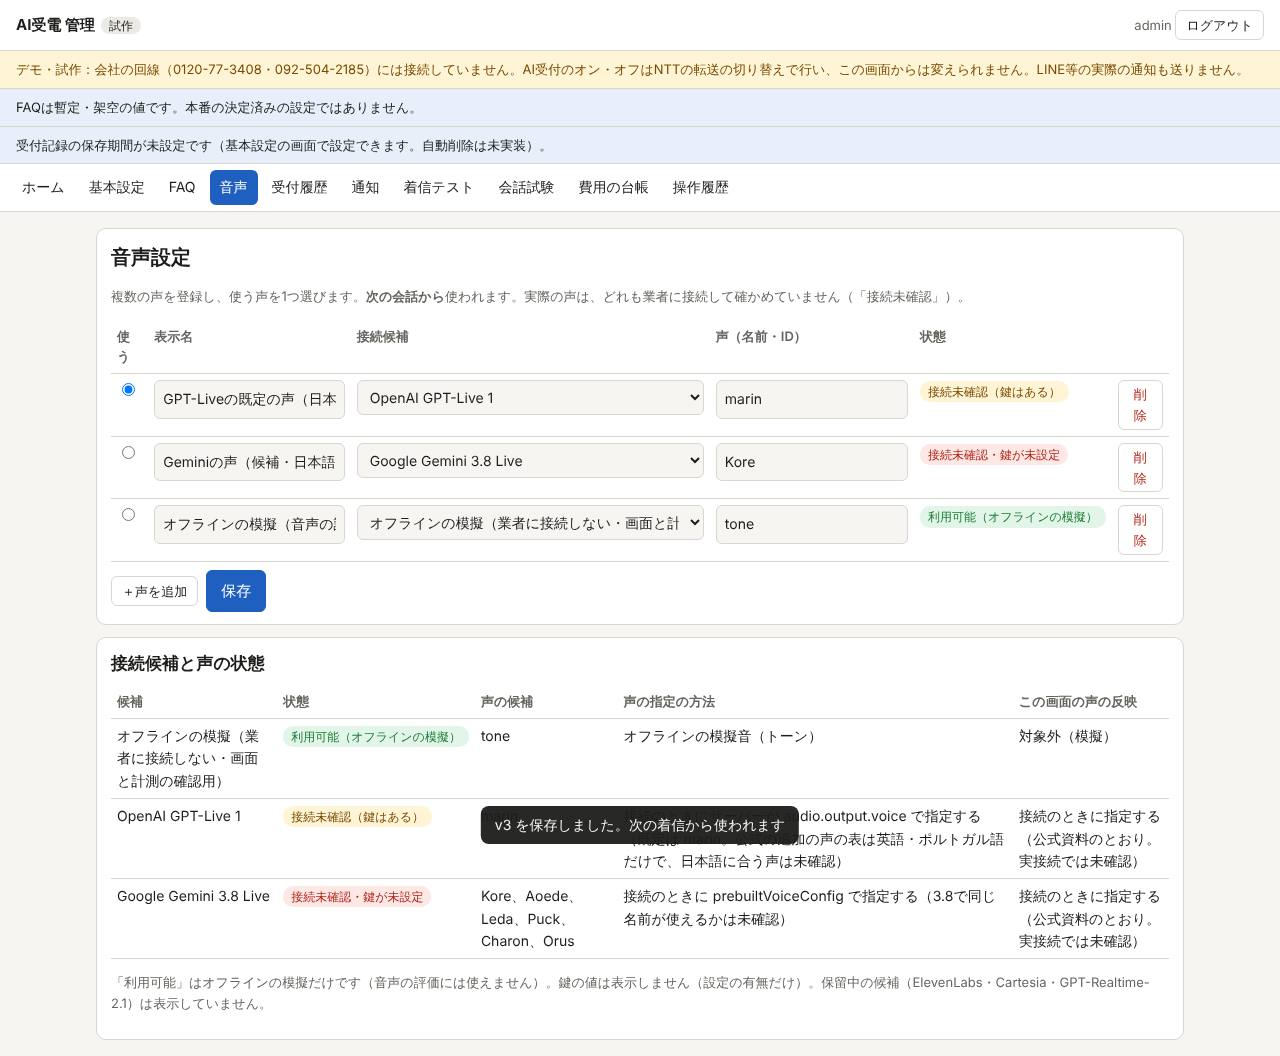
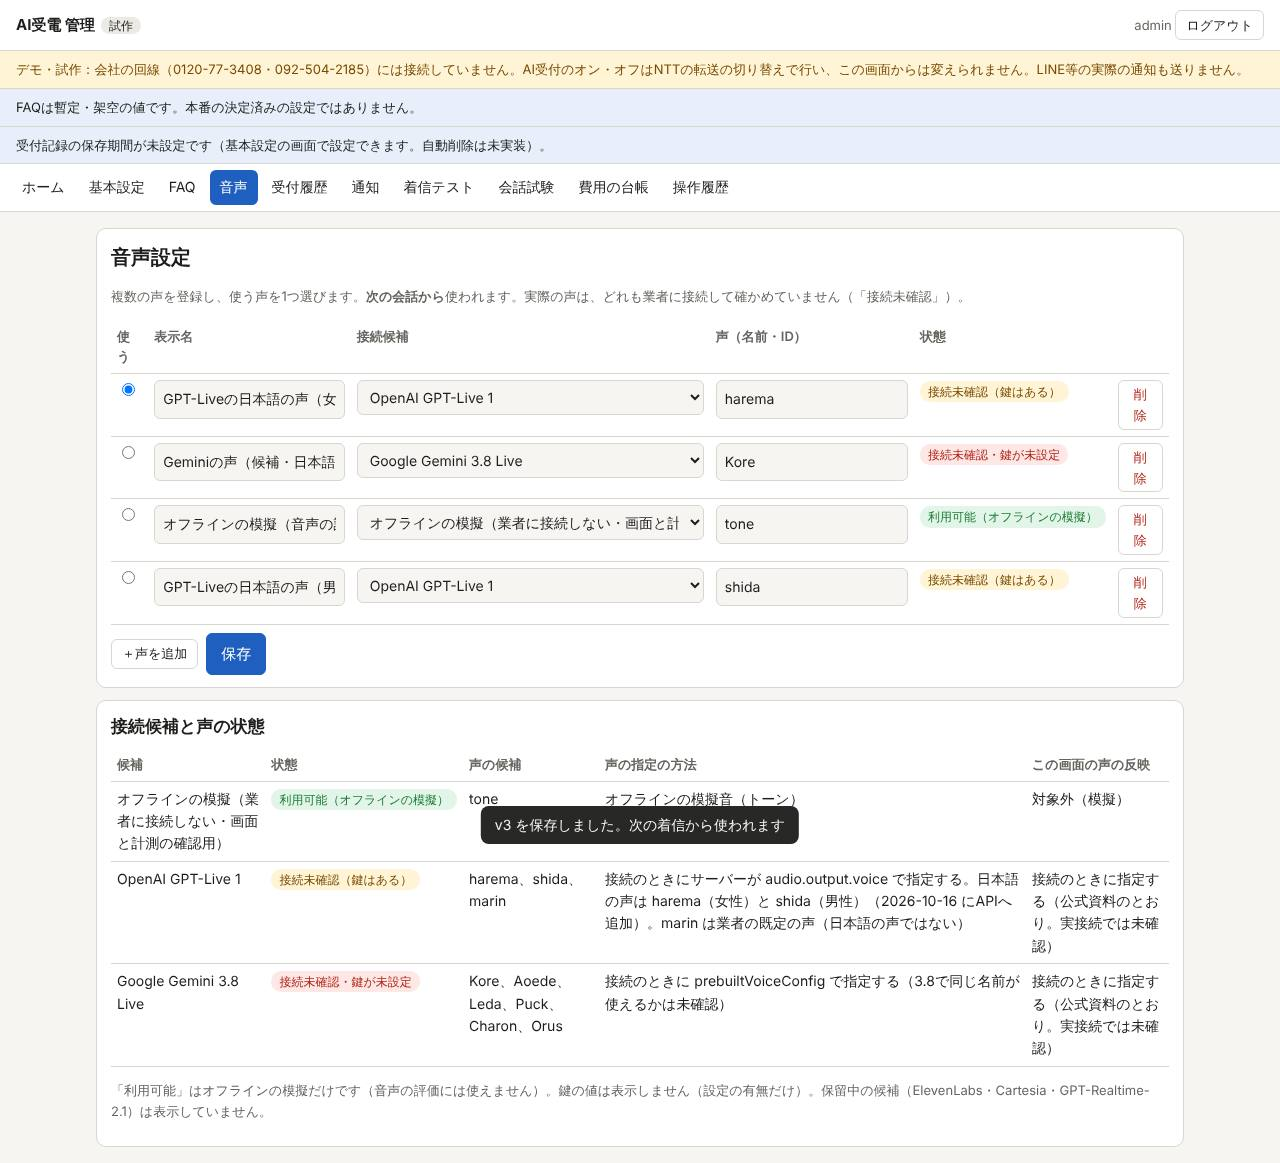
Lab: GPT-Live speaks with its new Japanese voice (harema) by default
GPT-Live-1.1 is still not in the API (2026-10-19; the model list has only
gpt-live-1). But on 2026-10-16 the gpt-live-1 API gained Japanese voices,
harema (feminine) and shida (masculine). The lab's default GPT-Live voice
is now harema, and shida is registered too; both can be switched on the
admin app's voice screen. An install that keeps its records (Mac) keeps
its saved voice until it is changed there.

Claude-Session: https://claude.ai/code/session_018pFjPLuP3S5SkWoNSMzDKX

diff --git a/prototype/reception/settings.py b/prototype/reception/settings.py
@@ -24,9 +24,11 @@ DEFAULT_CONFIG = {
     "provisional": True,
     "ai_failure_action": "forward",
     "voices": [   # the first connection check uses GPT-Live and Gemini only (user decision 2026-10-07)
-        {"id": "v1", "candidate": "gpt-live-1", "voice": "marin", "label": "GPT-Liveの既定の声（日本語は未確認）"},
+        # GPT-Live's Japanese voices were added to the API on 2026-10-16 (feminine harema, masculine shida)
+        {"id": "v1", "candidate": "gpt-live-1", "voice": "harema", "label": "GPT-Liveの日本語の声（女性・harema）"},
         {"id": "v2", "candidate": "gemini-3.8-live", "voice": "Kore", "label": "Geminiの声（候補・日本語は未確認）"},
         {"id": "v3", "candidate": "fake", "voice": "tone", "label": "オフラインの模擬（音声の評価には使えない）"},
+        {"id": "v4", "candidate": "gpt-live-1", "voice": "shida", "label": "GPT-Liveの日本語の声（男性・shida）"},
     ],
     "active_voice": "v1",
     "fields": {k: {"store": True, "summary": True, "notify": True} for k in FIELD_KEYS},
@@ -123,8 +125,9 @@ VOICE_CATALOG = {
     "gpt-realtime-2.1": {"voices": ["marin", "cedar", "alloy", "ash", "ballad", "coral", "echo", "sage", "shimmer",
                                     "verse"],
                          "how": "接続のときにサーバーが声を指定する"},
-    "gpt-live-1": {"voices": ["marin"], "how": "接続のときにサーバーが audio.output.voice で指定する（既定は marin。"
-                                               "公式の追加の声の表は英語・ポルトガル語だけで、日本語に合う声は未確認）"},
+    "gpt-live-1": {"voices": ["harema", "shida", "marin"],
+                   "how": "接続のときにサーバーが audio.output.voice で指定する。日本語の声は harema（女性）と shida（男性）"
+                          "（2026-10-16 にAPIへ追加）。marin は業者の既定の声（日本語の声ではない）"},
     "gemini-3.8-live": {"voices": ["Kore", "Aoede", "Leda", "Puck", "Charon", "Orus"],
                         "how": "接続のときに prebuiltVoiceConfig で指定する（3.8で同じ名前が使えるかは未確認）"},
     "elevenagents": {"voices": [], "how": "ElevenLabsの画面でエージェントの声を選ぶ。声のIDを入力して登録（上書きの許可が要る）"},

diff --git a/prototype/tests/test_browser_lab.py b/prototype/tests/test_browser_lab.py
@@ -445,7 +445,7 @@ class LabSessionControlTest(unittest.TestCase):
         self.assertFalse(lab.tool(g2["session_id"], "lookup_faq", {"question": "ロースターの清掃の料金"})["found"])
         live = lab.start("gpt-live-1")
         lab.sdp(live["session_id"], "offer")
-        self.assertEqual(lab.http.calls[-1]["body"]["session"]["audio"]["output"]["voice"], "marin")
+        self.assertEqual(lab.http.calls[-1]["body"]["session"]["audio"]["output"]["voice"], "harema")   # Japanese voice
 
     def test_agent_fixed_settings_are_labelled_and_overrides_need_permission(self):
         from prototype.browser_lab.server import SessionLimit

diff --git a/docs/spec-draft-v1.md b/docs/spec-draft-v1.md
@@ -14,6 +14,7 @@
 | v1（本体実装開始指示書 v1の反映、2026-10-07） | 受電モードの判定の規則を具体化した（2-1）。管理画面と、音声方式から独立した受付の共通処理を実装した（2-2。ローカルの試作、架空のデータ）。通知の送信待ちと処理をシミュレーションで実装した（LINEへは送らない）。未確定事項を「本番接続に必要」と「暫定の設定で進められる」に分けた（3-0）。段階2bの土台を先に作った（5章）。試験予算を、接続の予備試験と詳しい会話比較に分けた（[実測計画 v2.1](./measurement-plan-v2.md)） |
 | v1（fc81eddのレビューと利用者の決定の反映、2026-10-08） | 初回の試験の対象を GPT-Live 1 と Gemini 3.8 Live に絞り、ほかは保留、Qwenを次の候補にした（1-3・3-2）。確認の規則に、発話の番号・項目の改訂番号・業者の割り込みの通知を加えた（1-6）。発話でのAIの拒否と録音の拒否を分けた（1-5）。今の着信は担当者の携帯への全件転送であることと、回線案2を「検討中」として運用費を計算したこと（1-1・3-1・3-3）。LINEの費用の説明を正した（1-8）。試験予算の示し方を4つに分けた（[実測計画 v2.2](./measurement-plan-v2.md)）。出先から使うWebアプリは未完了と明記した |
 | v1（回線案2の採用の反映、2026-10-08） | 利用者の決定（10-07「システムのオン・オフで、今まで通り会社に着信するか、AIが受けるかに分かれる」、10-08「手動で人とアプリを切り替える方針」）を反映した。AIのオン・オフはNTTの転送の切り替えで行い、このアプリに届いた通話はすべてAIが受ける（1-1・2-1・3-1）。完成条件1・3を書き換えた（1-2）。受電モード（常時AI・常時普通・スケジュール運用）、曜日の時間帯、特別日、時間外の扱い、「普通受電」の経路、手動上書きの期限を外した。A-04とFAQ-04を固定の文にした（4-2）。回線案1は採用しない案として参考に残した。前の版で回線案2を「検討中」のままにし、決定と食い違っていた |
+| v1（GPT-Liveの日本語の声、2026-10-19） | GPT-Live-1.1 のAPI提供の確認（利用者の質問）の中で、2026-10-16に gpt-live-1 のAPIへ日本語の声 harema（女性）と shida（男性）が加わったと分かった。会話試験の GPT-Live の既定の声を harema にし、shida も登録した（管理画面の「音声」で切り替えられる）。GPT-Live-1.1 は2026-10-19の時点でもAPIでは使えない |
 | v1（AIへの指示を短くする、2026-10-14） | 利用者の質問（「ChatGPTの音声会話はもっと流暢。モデルが違うのか」）を調べ、同じ GPT-Live 1 で、違いは声とAIへの指示の長さだと分かった。利用者の依頼（「細かい手順は裏方のモデルに任せる設計にできないの？」）で、声のモデルへの指示を短くした（約4,600字→約1,800字）。復唱の手順・日付の早見表・FAQは、GPT-Live では裏方のモデルへ、Gemini では業務処理の説明と結果へ移した（2章「AIへの指示の分け方」）。起動の画面が、Googleの新しい形のキー（AQ.）も受け付けるようにした |
 | v1（回線の番号の利用、2026-10-14） | 利用者の決定（2026-10-14「上記は修正してください」）を反映した。回線から届いたお客様の番号（発信者番号）を、要約とLINEの通知に載せる（1-10）。AIは、折り返し先を伺うときに、まず回線の番号に折り返してよいかを伺う（2章「折り返し先の取得」の①を実装）。ブラウザー会話試験に「回線の番号（架空）」の欄を加えた |
 | v1（接遇の見直し、2026-10-13） | 試験の感想（0を「マル」と読む、「少し、確認しましょう」、通話の終わりが分からない、日本語が全体に不自然）を受けて、AIの話し方を電話応対の接遇の資料に合わせた（2章「話し方（接遇）」）。0は「ゼロ」、電話番号の区切りに「の」、番号と日時は保存と同時に復唱する（2章「読み上げ」）。終話の手順と、AIが電話を切る仕組みを加えた（2章「終話」、3-6）。案内文とFAQ-10の言い回しを直した（4-1・4-2。意味は変えていない） |
@@ -541,7 +542,7 @@
 - C1の2回目（2026-10-13、Mac、GPT-Live 1）の感想：①「少々、確認します」が日本語として不自然、②発音が日本語を母語とする人のものではない、③途中で急にかすれた声になる、④返事の後の応答が5秒ほど遅い。記録では、返事の後に業務処理が6回続いていた（保存4回・復唱・FAQ）。①④は指示文と、まとめて保存する業務処理（save_fields）で直した。②③は GPT-Live 1 の声そのものの問題で、指示では直せない（Gemini 3.8 Live との比較で判断する）。相づち（「うん」）でAIの発話が止まる様子もあった（Q-03）。
 - C1の3回目（2026-10-13、Mac、GPT-Live 1）の感想：①0を「マル」と読むのはおかしい、②「少し、確認しましょう」は接遇としておかしい、③いつ会話が終わったのか、お客様の側で分かりにくい、④日本語が全体に不自然なので、電話応対の接遇の資料を調べて設定してほしい。記録では、AIが番号を保存する前に自分で「〇八〇…」と復唱しており、お客様の「はい」で確認済みにならなかった。また、最後は「よろしくお願いいたします」で止まり、締めのあいさつがなかった。接遇の資料を調べて指示を書き直し（2章「話し方（接遇）」）、番号と日時は保存と同時に「ゼロ」で復唱し（2章「読み上げ」）、終話の手順とAIが電話を切る仕組みを加えた（2章「終話」）。
 - ChatGPTの音声会話との違い（2026-10-14、利用者の質問）：ChatGPTの音声会話も、有料プランでは GPT-Live 1 で動いている（無料プランは GPT-Live 1 mini）。違いは①声（ChatGPTの声はAPIでは使えない。APIは既定の marin と、英語・ポルトガル語向けの声）と、②AIへの指示の長さ（約4,600字）と考えた（公式資料からの推測）。②は、声のモデルへの指示を短くし、細かい手順を裏方へ移して直した（2章「AIへの指示の分け方」）。次の試験で、GPT-Live 1 と Gemini 3.8 Live の両方を新しい指示で比べる。
-- GPT-Live-1.1（2026-10-15、利用者の質問）：ChatGPT・Codex・dots 向けに出た後継。日本語を含む訛りの改善、日本語の新しい声、裏方への任せ方と指示の効きの改善がうたわれている。APIは「近日」で、2026-10-16の時点では使えない（APIのモデル一覧は gpt-live-1 だけ）。APIに出たら、会話試験の GPT-Live の候補をそちらへ切り替えて比べる（モデル名と、日本語の声が使えれば声を変える。接続の方法が変わるかは、出たときに確かめる）。それまでは gpt-live-1 と Gemini 3.8 Live で試験を続ける。
+- GPT-Live-1.1（2026-10-15、利用者の質問）：ChatGPT・Codex・dots 向けに出た後継。日本語を含む訛りの改善、日本語の新しい声、裏方への任せ方と指示の効きの改善がうたわれている。APIは「近日」で、2026-10-16の時点では使えない（APIのモデル一覧は gpt-live-1 だけ）。APIに出たら、会話試験の GPT-Live の候補をそちらへ切り替えて比べる（モデル名と、日本語の声が使えれば声を変える。接続の方法が変わるかは、出たときに確かめる）。それまでは gpt-live-1 と Gemini 3.8 Live で試験を続ける。2026-10-19に確かめ直したが、APIのモデル一覧は gpt-live-1 だけのまま。一方、2026-10-16に gpt-live-1 のAPIへ日本語の声 harema（女性）・shida（男性）が加わったので、会話試験の既定の声を harema にした（shida も登録）。「発音が日本語を母語とする人のものではない」という感想（C1の2回目）は、この声で聞き直す。
 - C1（2026-10-13、Mac、GPT-Live 1）で、電話番号の復唱の言い間違いがあった。AIの言葉が記録に残っていなかったため、送るようにし、復唱の言い間違いを確定させないようにした（1-6）。日程の質問に料金のFAQが返ったため、FAQの「探す語」に、どれかが必要な語のグループ（「いくら|料金」）を設けた。
 - 出先から使うWebアプリ（HTTPS・運用環境・役割ごとの権限）は、まだ作っていません。
 - 認証情報がなくても進められること：仕様書の反映、比較枠と計測の仕組みの整備、接続の調査（Inworldなど）、管理画面の改善。

diff --git a/docs/candidates-v1.md b/docs/candidates-v1.md
@@ -8,7 +8,7 @@
 
 | 候補 | 種類 | 日本語 | ブラウザーからの接続 | 料金（公式） | 位置づけ |
 | --- | --- | --- | --- | --- | --- |
-| OpenAI GPT-Live 1 | 会話モデル（同時に聞いて話す） | 公式の言語の一覧がなく、追加の声の表は英語・ポルトガル語だけ。言語は指示文で指定する（最初の接続で日本語の受付を確かめる） | WebRTC。こちらのサーバーが鍵を使って POST /v1/live/sessions でSDPを交換する（ブラウザーに鍵を渡さない） | $0.05/分 | 初回（試験の対象） |
+| OpenAI GPT-Live 1 | 会話モデル（同時に聞いて話す） | 公式の言語の一覧はない。2026-10-16に日本語の声 harema（女性）と shida（男性）がAPIに追加された（会話試験の既定は harema）。言語は指示文で指定する | WebRTC。こちらのサーバーが鍵を使って POST /v1/live/sessions でSDPを交換する（ブラウザーに鍵を渡さない） | $0.05/分 | 初回（試験の対象） |
 | Google Gemini 3.8 Live | 会話モデル（音声） | Live APIの対応言語の表に日本語（ja）がある | 一時トークン（POST v1beta/auth_tokens、既定30分・1回）で、BidiGenerateContentConstrained のWebSocketにつなぐ | 音声入力 $0.005/分・出力 $0.018/分（目安） | 初回（試験の対象） |
 | ElevenLabs ElevenAgents（Expressive mode） | 会話サービス | Expressive modeの資料が日本語を明記 | @elevenlabs/client。署名付きURL（15分）またはWebRTCのトークンをサーバーで発行 | $0.08/分（から） | 保留（費用が高い。性能に大差がなければ使わない） |
 | Cartesia Managed Agents（Ink-2＋LLM＋Sonic-3.6） | 会話サービス（部品統合） | Ink-2・Sonic-3.6のモデル資料に日本語（ja） | 一時トークン（POST /access-token）で wss://api.cartesia.ai/agents/stream/{agent_id}?access_token= につなぐ | $0.06/分 | 保留（費用が高い。性能に大差がなければ使わない） |
@@ -26,8 +26,8 @@
 ### OpenAI GPT-Live 1（初回（試験の対象））
 
 - モデル・構成：gpt-live-1
-- 公式で確認：2026-09-10に一般提供（変更履歴）／同時に聞いて話す設計。業務処理は delegation（responses／client）で別のモデル・処理へ渡す／エンドポイントは /v1/live/sessions。Realtimeとは別のプロトコル（移行ガイドあり）／$0.05/分、秒単位の課金。バックエンドのモデルとツールは別料金／2026-10-15に GPT-Live-1.1 が ChatGPT・Codex・dots に出た（日本語を含む訛りの改善、日本語の新しい声、裏方への任せ方が自然に、指示の効きの改善）。APIは「近日」で、2026-10-16の時点では使えない（APIのモデル一覧は gpt-live-1 だけ）
-- 日本語：公式の言語の一覧がなく、追加の声の表は英語・ポルトガル語だけ。言語は指示文で指定する（最初の接続で日本語の受付を確かめる）
+- 公式で確認：2026-09-10に一般提供（変更履歴）／同時に聞いて話す設計。業務処理は delegation（responses／client）で別のモデル・処理へ渡す／エンドポイントは /v1/live/sessions。Realtimeとは別のプロトコル（移行ガイドあり）／$0.05/分、秒単位の課金。バックエンドのモデルとツールは別料金／2026-10-15に GPT-Live-1.1 が ChatGPT・Codex・dots に出た（日本語を含む訛りの改善、日本語の新しい声、裏方への任せ方が自然に、指示の効きの改善）。APIは「近日」で、2026-10-19の時点でも使えない（APIのモデル一覧は gpt-live-1 だけ）／2026-10-16に gpt-live-1 のAPIへ9つの声（日本語は harema・shida）と、文章から声を作る機能（Prompt-to-voice）が加わった（変更履歴）
+- 日本語：公式の言語の一覧はない。2026-10-16に日本語の声 harema（女性）と shida（男性）がAPIに追加された（会話試験の既定は harema）。言語は指示文で指定する
 - 接続：ブラウザーはWebRTC。こちらのサーバーが鍵を使って POST /v1/live/sessions でSDPを交換する（ブラウザーに鍵を渡さない）。電話はSIP、またはサーバーのWebSocketで中継
 - 未確認：日本語の会話品質／発話の開始・終了と割り込みのイベント／バックエンドのモデルの費用（記号 L_live）
 - 自社で作るもの：自社の中継・業務処理が要る（delegationの受け口）

diff --git a/docs/browser-lab-setup.md b/docs/browser-lab-setup.md
@@ -140,7 +140,7 @@
 
 | 構成 | 業者側で行うこと | 業務処理の経路 | 試験での注意 |
 | --- | --- | --- | --- |
-| GPT-Live 1 | OpenAIの試験用プロジェクトの鍵。会話の設定は、サーバーが接続のときに送る | delegation（Responses）。裏方のモデルに8つのツールを関数として渡し、関数呼び出しは `response.event` でブラウザーに届く。ブラウザーが共通の処理へ送り、`response.item.create`＋`response.create` で返す | 裏方のモデルは別料金（L_live）。声は `audio.output.voice`（既定 marin。日本語に合う声は未確認）。言語の設定欄はなく、指示文で日本語を指定する。発話・割り込みのイベントはない |
+| GPT-Live 1 | OpenAIの試験用プロジェクトの鍵。会話の設定は、サーバーが接続のときに送る | delegation（Responses）。裏方のモデルに8つのツールを関数として渡し、関数呼び出しは `response.event` でブラウザーに届く。ブラウザーが共通の処理へ送り、`response.item.create`＋`response.create` で返す | 裏方のモデルは別料金（L_live）。声は `audio.output.voice`（既定は日本語の harema〔女性〕。男性の shida も登録済み。どちらも2026-10-16にAPIへ追加）。言語の設定欄はなく、指示文で日本語を指定する。発話・割り込みのイベントはない |
 | Gemini 3.8 Live | Google AI Studioの鍵。無料枠は入出力がGoogleの改善に使われる条件なので、架空のデータだけで使う。有料枠は前払い | 関数呼び出し（`toolCall`／`toolResponse`） | 履歴はターンごとに課金されるため、履歴を短く保つ設定（contextWindowCompression）を送る。声は `prebuiltVoiceConfig`（既定 Kore。3.8で同じ名前が使えるかは未確認） |
 
 保留の候補（ElevenLabs・Cartesia・GPT-Realtime-2.1）の準備は、保留を解くときに改めて確かめます。ElevenLabs はエージェントと client tools を業者の画面で作り、Cartesia は新しいエージェントのWebSocket（`/v1/agents/websocket`）と Client function を使う構成で書いてあります。

diff --git a/CLAUDE.md b/CLAUDE.md
@@ -89,6 +89,7 @@
 - C1の3回目（2026-10-13、Mac）の感想：0を「マル」と読む、「少し、確認しましょう」、通話の終わりが分からない、日本語が全体に不自然。電話応対の接遇の資料を調べ、AIへの指示に話し方と使わない言葉を入れた（`prototype/concierge/prompts.py` の `SPEECH_MANNERS`）。番号と日時は保存と同時に「ゼロ」で復唱し、締めのあいさつの後に `end_call` でAIが電話を切る（試作は3秒待つ）。
 - 回線の番号（2026-10-14、利用者の決定）：要約・通知に載せ、AIが `offer_line_number` で「おかけの番号に折り返してよいか」を伺うようにした。会話試験の画面に「回線の番号（架空）」の欄がある（空欄は非通知）。
 - AIへの指示を短くした（2026-10-14、利用者の依頼）：ChatGPTの音声会話のほうが流暢、という質問から。声のモデルへの指示は約1,800字（以前は約4,600字）。細かい手順・日付・FAQは、GPT-Live では裏方のモデルへ（`backend_instructions`）、Gemini では業務処理へ移した（`voice_instructions`）。保留の候補は長い指示のまま。起動の画面は、Geminiの新しい形のキー（`AQ.`）も受け付ける。
+- GPT-Liveの日本語の声（2026-10-19）：GPT-Live-1.1 はまだAPIにない（ChatGPTなどだけ）。ただし 2026-10-16 に gpt-live-1 のAPIへ日本語の声 harema（女性）・shida（男性）が加わったので、既定の声を harema にした（`prototype/reception/settings.py`）。前からの記録を引き継ぐMacでは、管理画面の「音声」で声を harema に変える。
 - 報告を待つ間に（2026-10-13）、管理画面の対応管理に「担当」と二重取得の防止を加えました。あわせて、文書と画面に残っていた「C1〜C6」を「C1〜C7」に直し、Shift_JIS の環境で落ちていた起動の試験（試験の側の文字コードの扱い）を直しました。
 
 ## 技術の要点
